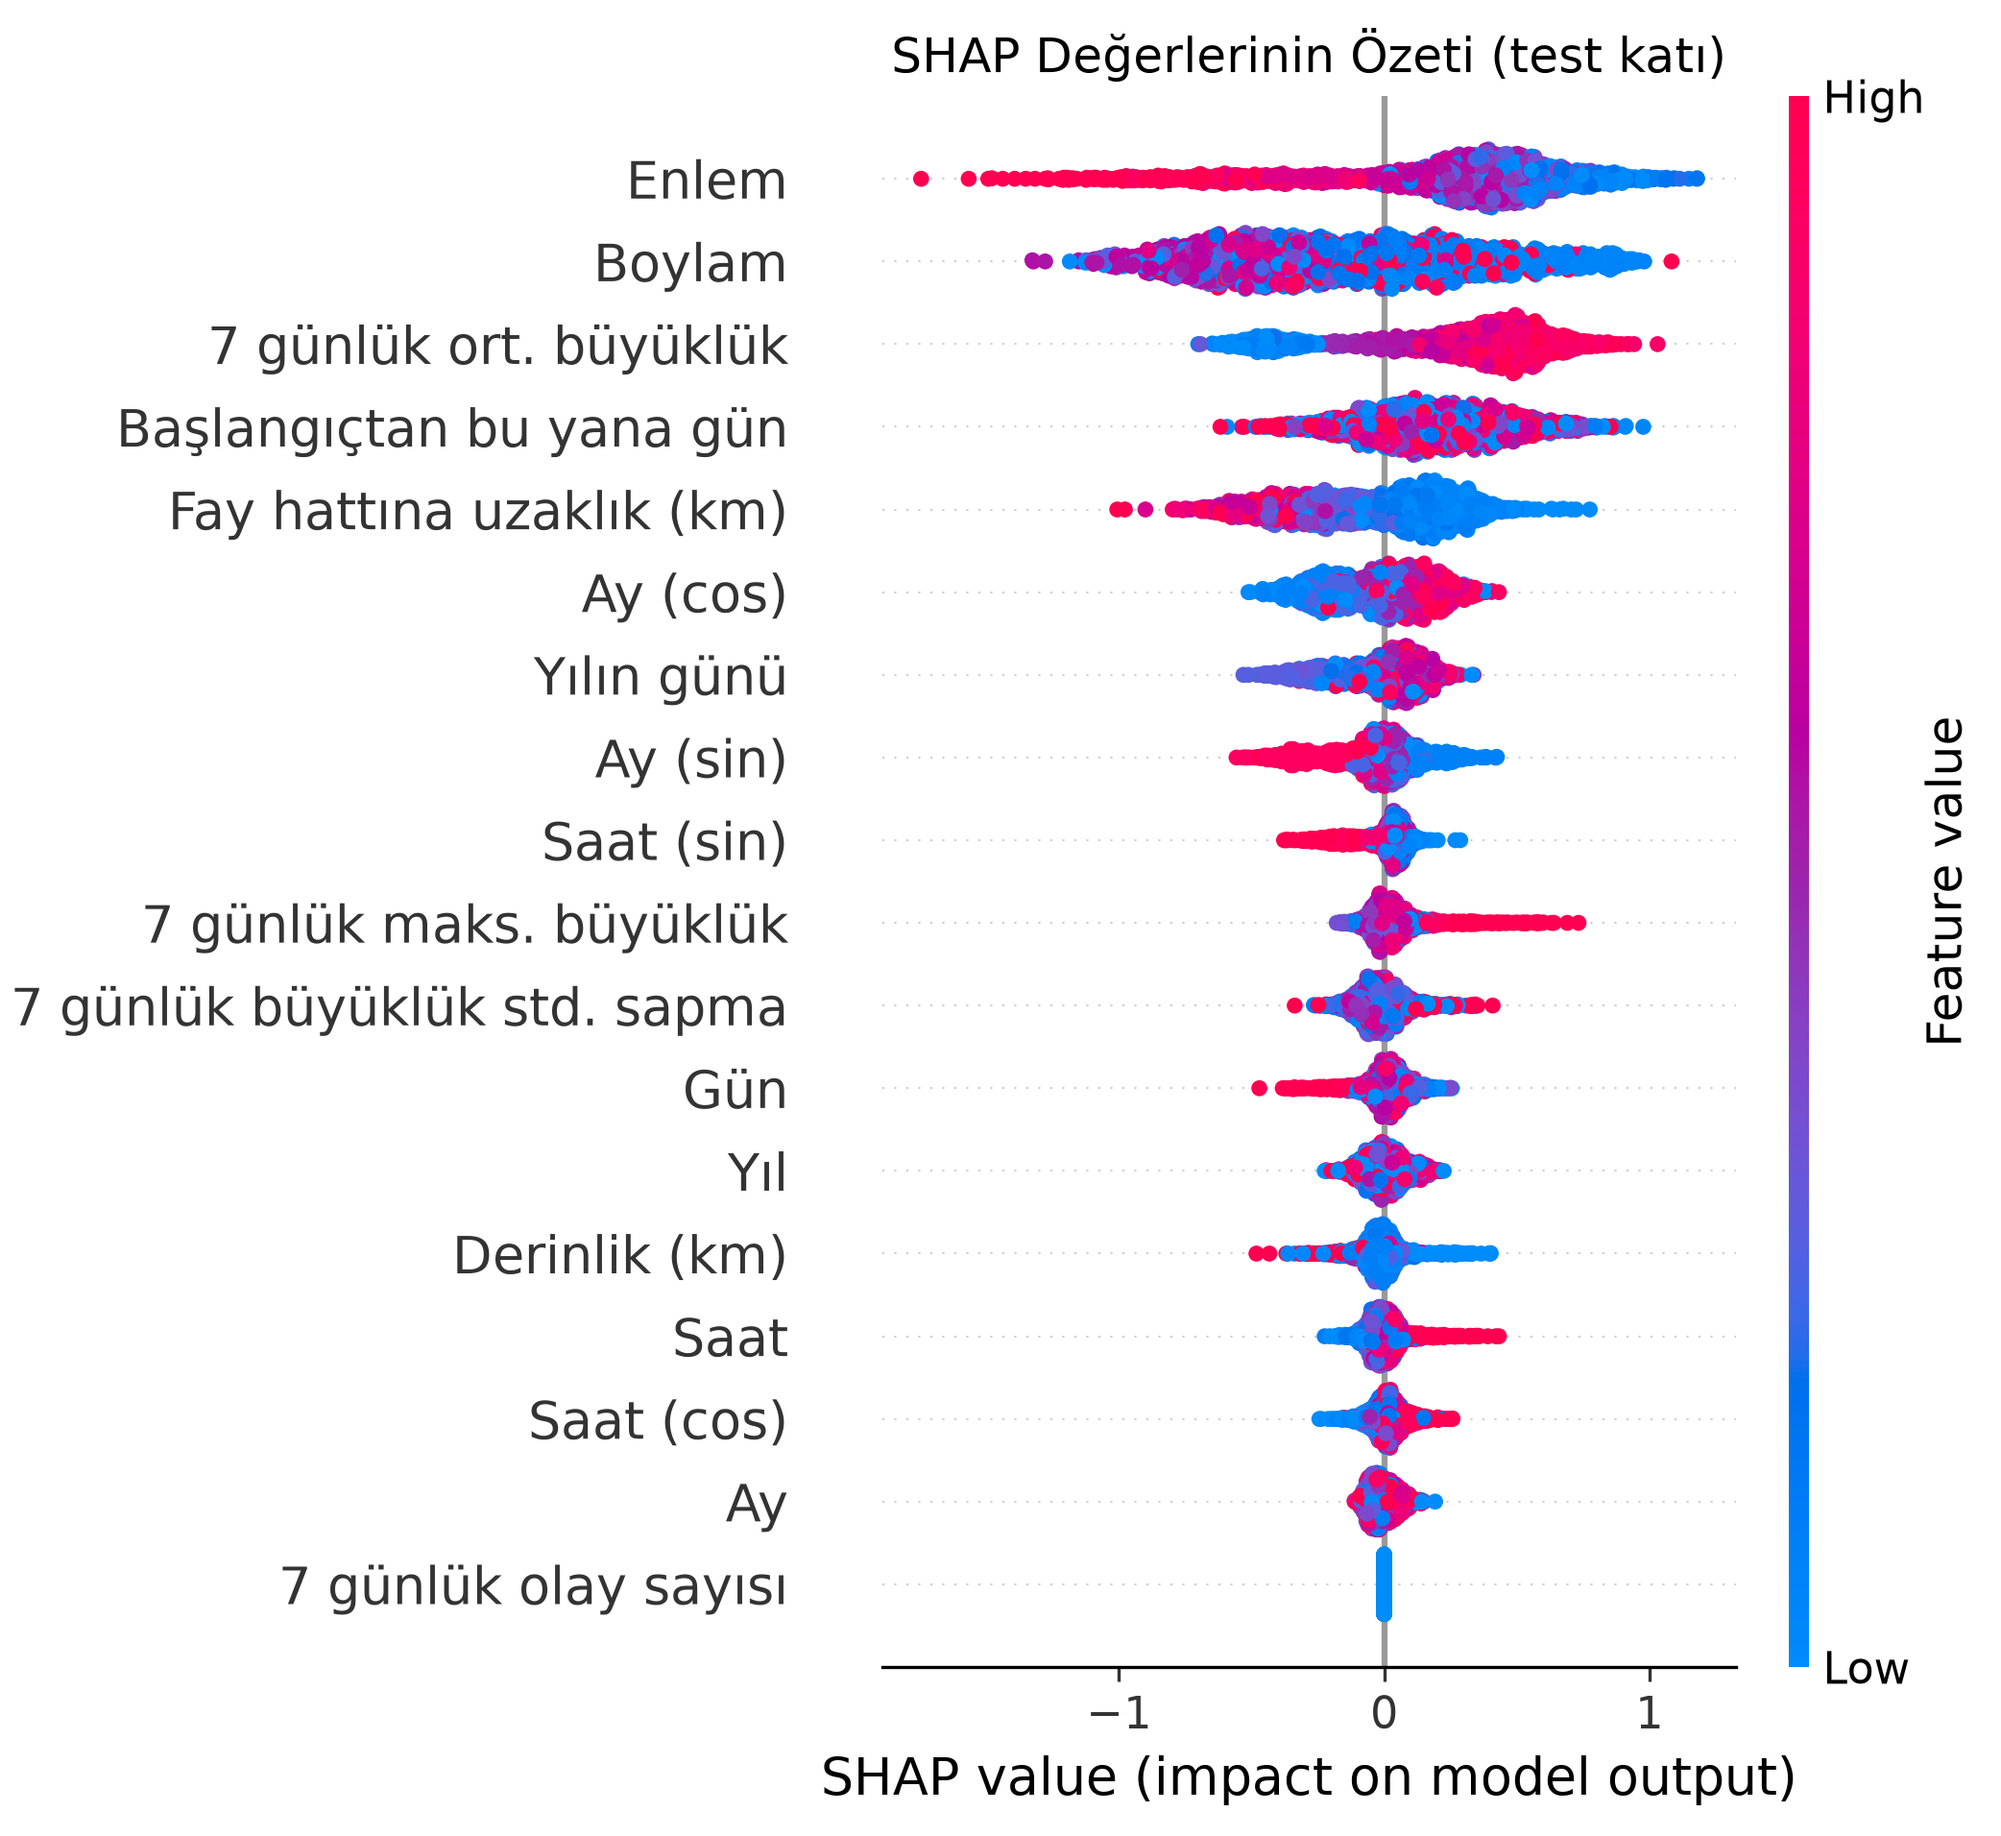
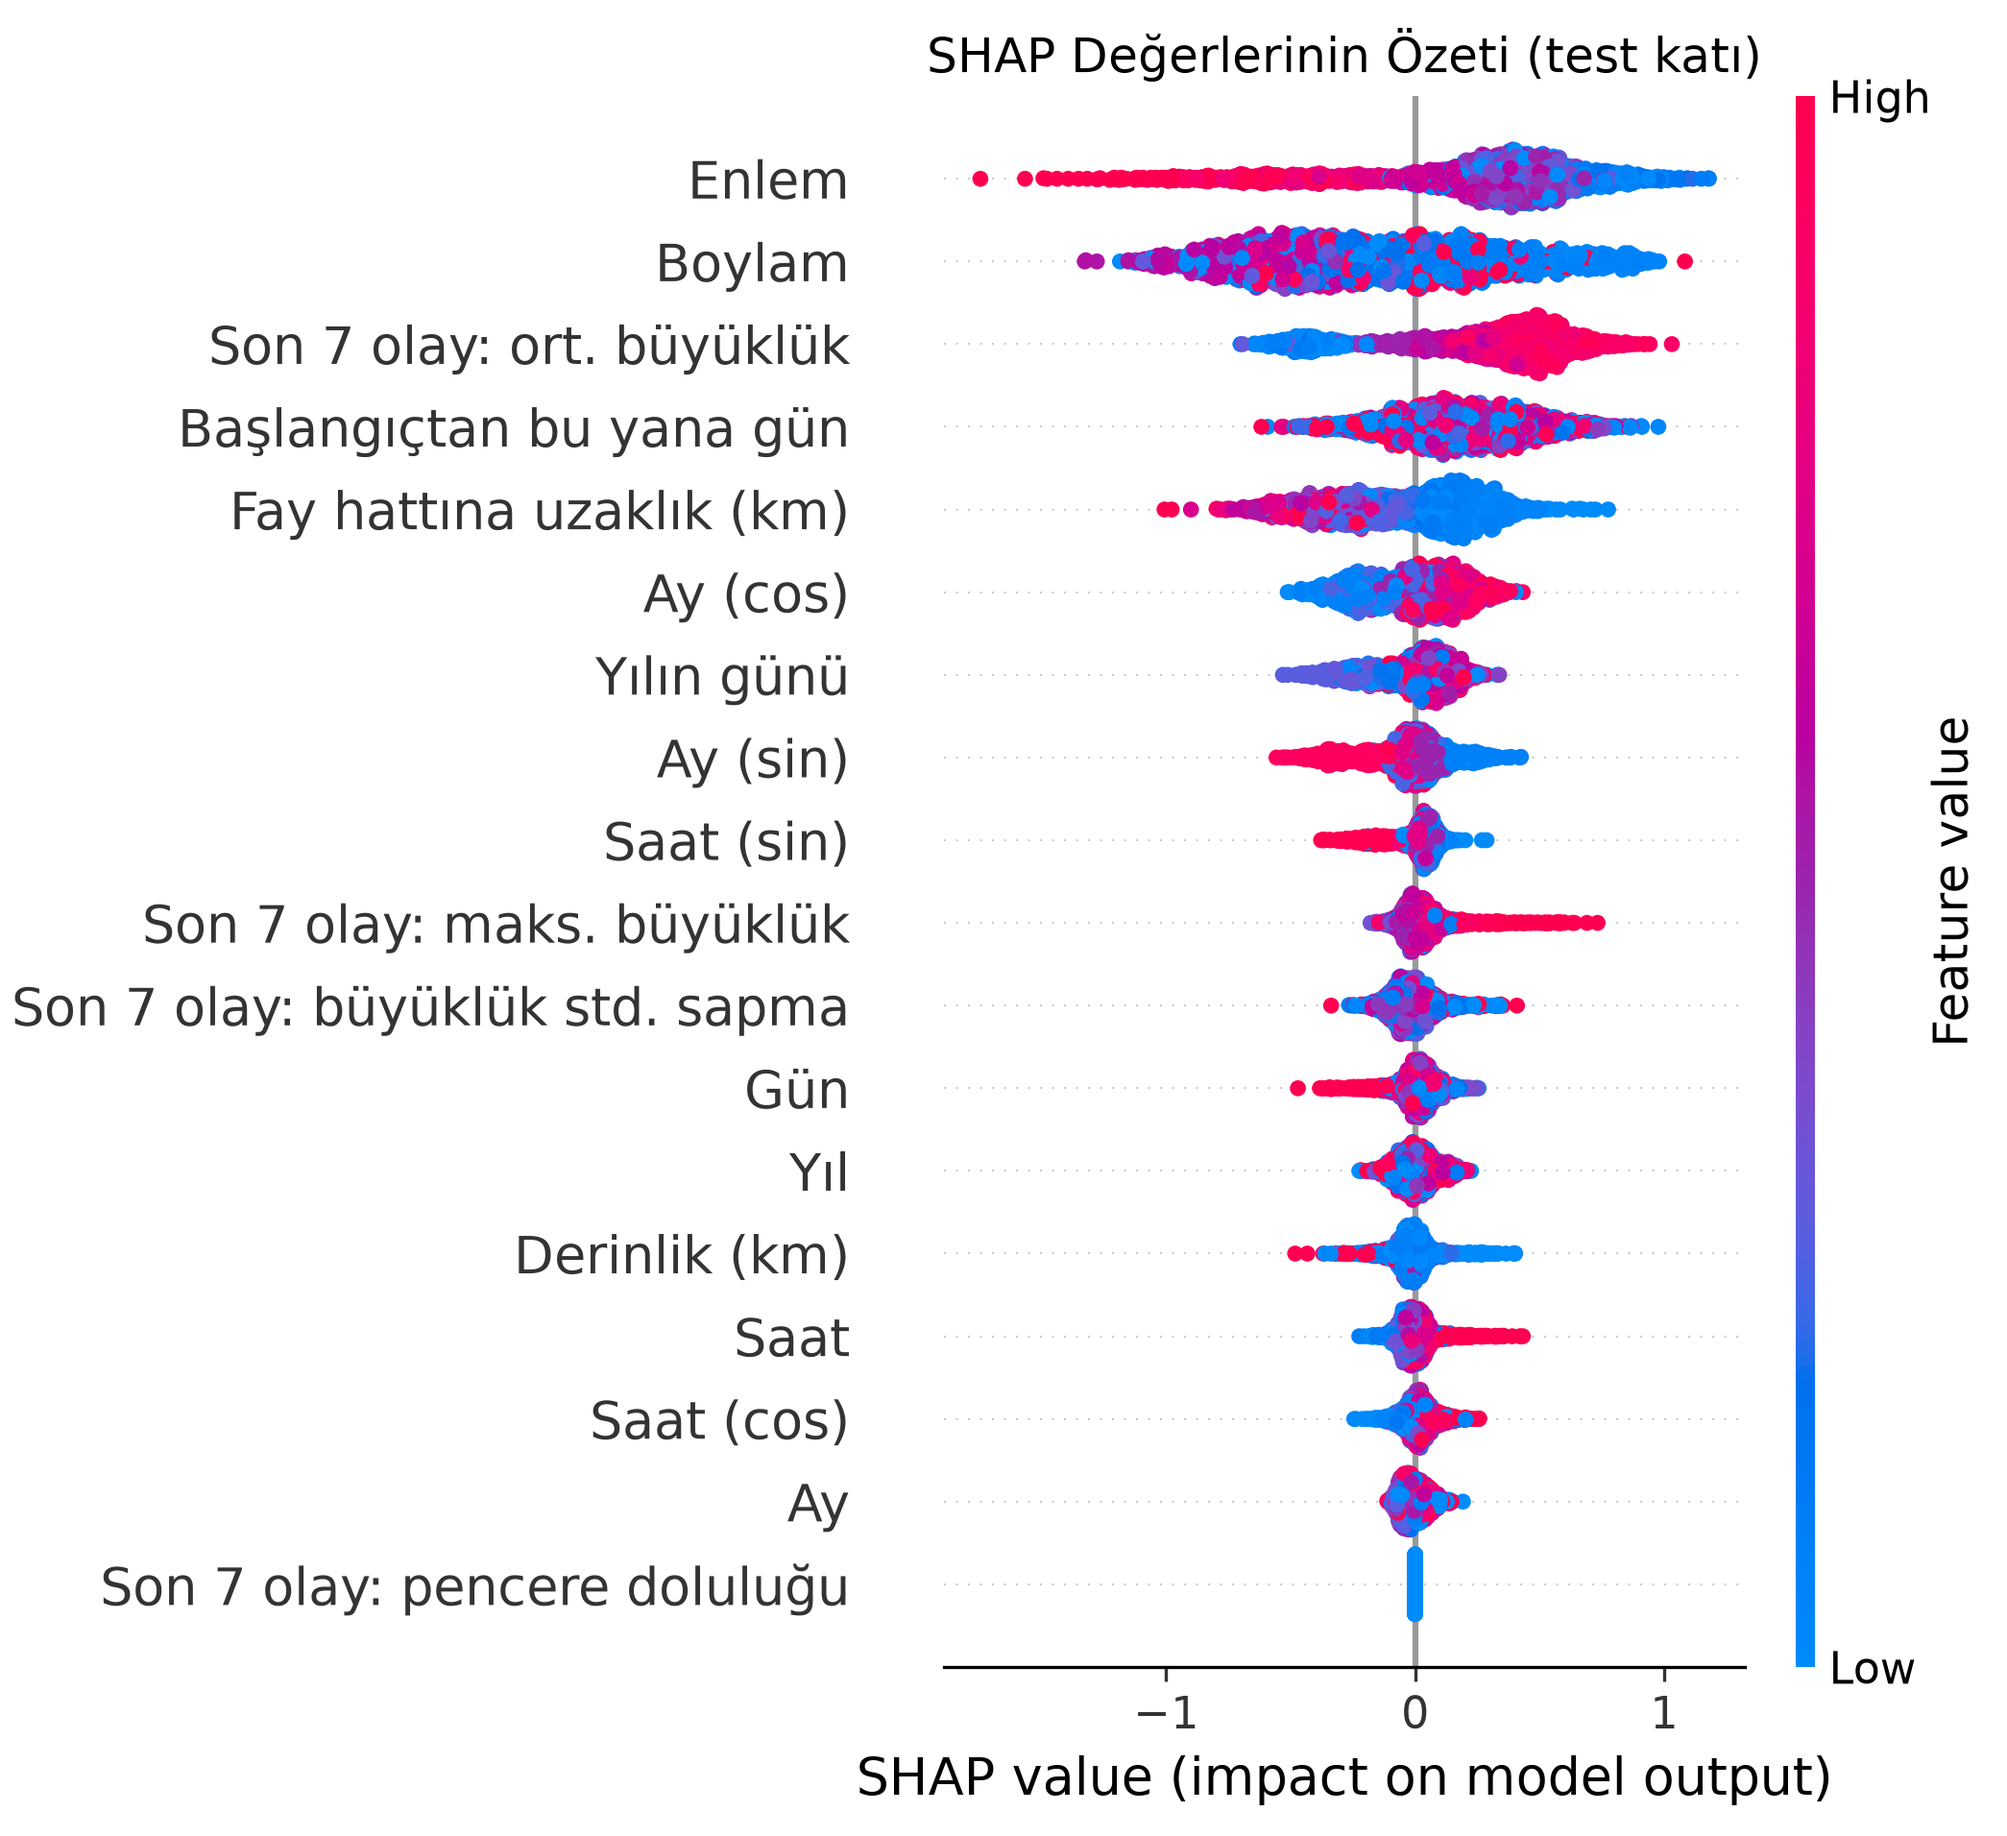
fix(risk): R0b naif tabanı doğru öznitelikle; SHAP şekli katalog tarihine süzülü (J-120)
- naive_r0b_duzeltme.py (yeni): "son 7 olayın ortalama büyüklüğü" tabanı;
  eski R0b rolling().count() ile her kayıtta sabit 7 idi (ROC-AUC 0,5000).
  Sonuç results/naive_seismicity_mean7.json.
- shap_figure.py: --son-tarih süzgeci (n = 13 609); etiketler "Son 7 olay".

diff --git a/model_benchmarks/05_risk_skoru/local_run/naive_r0b_duzeltme.py b/model_benchmarks/05_risk_skoru/local_run/naive_r0b_duzeltme.py
@@ -1,0 +1,77 @@
+"""R0b duzeltmesi (27 Eylul 2026).
+
+`naive_baselines.py` "yalniz sismisite yogunlugu" tabanini `event_count_7d` ile
+kosuyordu. Bu oznitelik pandas rolling(window=7).count() oldugundan 13 609
+kaydin hepsinde 7'dir (sabit); taban tanim geregi ROC-AUC = 0,5 veriyordu.
+Makalenin tanimladigi taban "son yedi olayin ortalama buyuklugu"dur
+(`rolling_mean_7d`). Bu betik:
+
+  1. Makaledeki kosuyla ayni kumeyi kurar (katalog 2 Agustos 2026'ya kadar
+     suzulur; n = 13 609 dogrulanir),
+  2. R0a'yi (fay mesafesi) yeniden uretip Tablo 23 ile karsilastirir -- duzenek
+     dogrulamasi,
+  3. R0b'yi `rolling_mean_7d` ile kosar ve `results/naive_seismicity_mean7.json`
+     yazar (eski `naive_seismicity.json`'a dokunmaz).
+"""
+import json
+import sys
+import tempfile
+import time
+from pathlib import Path
+
+import numpy as np
+import pandas as pd
+
+PARENT = Path(__file__).resolve().parent.parent
+sys.path.insert(0, str(PARENT))
+import common_preprocessing as cp  # noqa: E402
+
+HERE = Path(__file__).resolve().parent
+RESULTS = HERE / "results"
+SON_TARIH = "2026-08-02T23:59:59"
+
+ham = pd.read_csv(cp.DEFAULT_QUERY_CSV)
+ham = ham[pd.to_datetime(ham["time"], utc=True) <= pd.Timestamp(SON_TARIH, tz="UTC")]
+csv = Path(tempfile.gettempdir()) / "query_suzulmus_r0b.csv"
+ham.to_csv(csv, index=False)
+X, y, _ = cp.load_dataset(csv)
+assert len(X) == 13609, len(X)
+splits = cp.walk_forward_splits(len(X), 5)
+print(f"n = {len(X)}  pozitif oran = {y.mean():.4f}")
+
+
+def siralama(kolon, artan):
+    """naive_baselines.run_naive ile ayni: kat icinde min-max -> olasilik."""
+    olc = []
+    t0 = time.time()
+    for tr, te in splits:
+        ham_skor = X[kolon].iloc[te].values.astype(float)
+        lo, hi = np.nanmin(ham_skor), np.nanmax(ham_skor)
+        norm = (ham_skor - lo) / (hi - lo) if hi > lo else np.zeros_like(ham_skor)
+        norm = np.nan_to_num(norm, nan=0.0)
+        olc.append(cp.evaluate_predictions(y.iloc[te], (1.0 - norm) if artan else norm))
+    return cp.aggregate_folds(olc), olc, time.time() - t0
+
+
+r0a, _, _ = siralama("distance_to_fault", artan=True)
+print("R0a (dogrulama; Tablo 23: ROC 0,5333 ± 0,0283, PR 0,3074, MCC 0,0305):")
+print(f"   ROC {r0a['roc_auc_mean']:.4f} ± {r0a['roc_auc_std']:.4f}  PR {r0a['pr_auc_mean']:.4f}  "
+      f"F1 {r0a['f1_mean']:.4f}  BalAcc {r0a['balanced_accuracy_mean']:.4f}  "
+      f"Brier {r0a['brier_mean']:.4f}  MCC {r0a['mcc_mean']:.4f}")
+
+r0b, katlar, sure = siralama("rolling_mean_7d", artan=False)
+print("R0b (rolling_mean_7d):")
+print(f"   ROC {r0b['roc_auc_mean']:.4f} ± {r0b['roc_auc_std']:.4f}  PR {r0b['pr_auc_mean']:.4f}  "
+      f"F1 {r0b['f1_mean']:.4f}  BalAcc {r0b['balanced_accuracy_mean']:.4f}  "
+      f"Brier {r0b['brier_mean']:.4f}  MCC {r0b['mcc_mean']:.4f}")
+
+(RESULTS / "naive_seismicity_mean7.json").write_text(json.dumps({
+    "model": "naive_seismicity_mean7",
+    "title": "Naif -- Son 7 olayin ortalama buyuklugu (r0b, duzeltilmis)",
+    **r0b, "fold_metrics": katlar,
+    "params": {"type": "tek_oznitelikli_siralama", "feature": "rolling_mean_7d",
+               "ascending": False, "katalog_son_tarih": SON_TARIH, "n": int(len(X))},
+    "train_seconds": round(sure, 4),
+    "r0a_dogrulama": {k: r0a[k] for k in ("roc_auc_mean", "roc_auc_std", "pr_auc_mean", "mcc_mean")},
+}, indent=2, ensure_ascii=False), encoding="utf-8")
+print("yazildi:", RESULTS / "naive_seismicity_mean7.json")

diff --git a/model_benchmarks/05_risk_skoru/local_run/shap_figure.py b/model_benchmarks/05_risk_skoru/local_run/shap_figure.py
@@ -31,10 +31,10 @@ TR_LABELS = {
     "latitude": "Enlem",
     "longitude": "Boylam",
     "depth": "Derinlik (km)",
-    "rolling_mean_7d": "7 günlük ort. büyüklük",
-    "rolling_std_7d": "7 günlük büyüklük std. sapma",
-    "rolling_max_7d": "7 günlük maks. büyüklük",
-    "event_count_7d": "7 günlük olay sayısı",
+    "rolling_mean_7d": "Son 7 olay: ort. büyüklük",
+    "rolling_std_7d": "Son 7 olay: büyüklük std. sapma",
+    "rolling_max_7d": "Son 7 olay: maks. büyüklük",
+    "event_count_7d": "Son 7 olay: pencere doluluğu",
     "year": "Yıl",
     "month": "Ay",
     "day": "Gün",
@@ -54,7 +54,20 @@ def turkish_label(col):
 
 
 def main():
-    X, y, _ = cp.load_dataset()
+    # _7d oznitelikleri pandas rolling(window=7) ile SATIR (olay) tabanlidir,
+    # gun tabanli degil. --son-tarih: makaledeki kosu 2 Agustos 2026'ya kadarki
+    # katalogla yapildi (n = 13 609); katalog sonradan buyudugu icin ayni
+    # kumeyi yeniden kurmak uzere ham katalog bu tarihe kadar suzulur.
+    csv = None
+    if '--son-tarih' in sys.argv:
+        import pandas as pd, tempfile
+        son = sys.argv[sys.argv.index('--son-tarih') + 1]
+        ham = pd.read_csv(cp.DEFAULT_QUERY_CSV)
+        ham = ham[pd.to_datetime(ham['time'], utc=True) <= pd.Timestamp(son, tz='UTC')]
+        csv = Path(tempfile.gettempdir()) / 'query_suzulmus.csv'
+        ham.to_csv(csv, index=False)
+    X, y, _ = cp.load_dataset(csv)
+    print('n =', len(X), 'pozitif oran =', round(float(y.mean()), 3))
     splits = cp.walk_forward_splits(len(X), 5)
     tr, te = splits[-1]
 

diff --git a/model_benchmarks/05_risk_skoru/local_run/plots_risk_clean_style.py b/model_benchmarks/05_risk_skoru/local_run/plots_risk_clean_style.py
@@ -115,18 +115,18 @@ FEATURE_TR = {
     "distance_to_fault": "Fay hattına uzaklık (km)",
     "day_of_year": "Yılın günü",
     "cos_month": "Ay (cos)",
-    "rolling_std_7d": "7 günlük büyüklük std. sapma",
-    "rolling_mean_7d": "7 günlük ort. büyüklük",
+    "rolling_std_7d": "Son 7 olay: büyüklük std. sapma",
+    "rolling_mean_7d": "Son 7 olay: ort. büyüklük",
     "sin_month": "Ay (sin)",
     "day": "Gün",
     "year": "Yıl",
-    "rolling_max_7d": "7 günlük maks. büyüklük",
+    "rolling_max_7d": "Son 7 olay: maks. büyüklük",
     "month": "Ay",
     "depth": "Derinlik (km)",
     "sin_hour": "Saat (sin)",
     "cos_hour": "Saat (cos)",
     "hour": "Saat",
-    "event_count_7d": "7 günlük olay sayısı",
+    "event_count_7d": "Son 7 olay: pencere doluluğu",
 }
 
 
